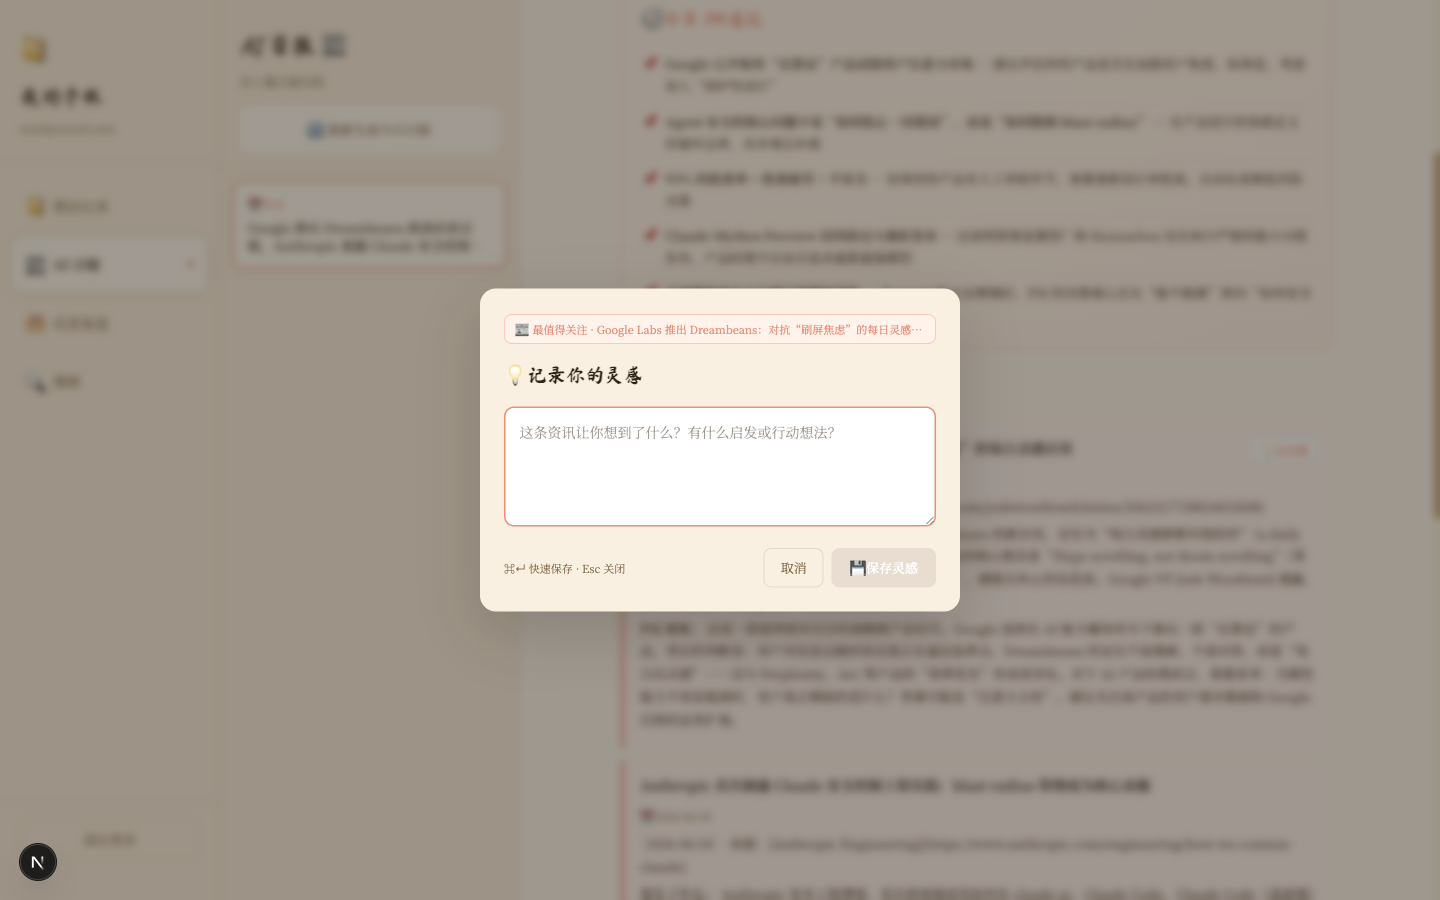
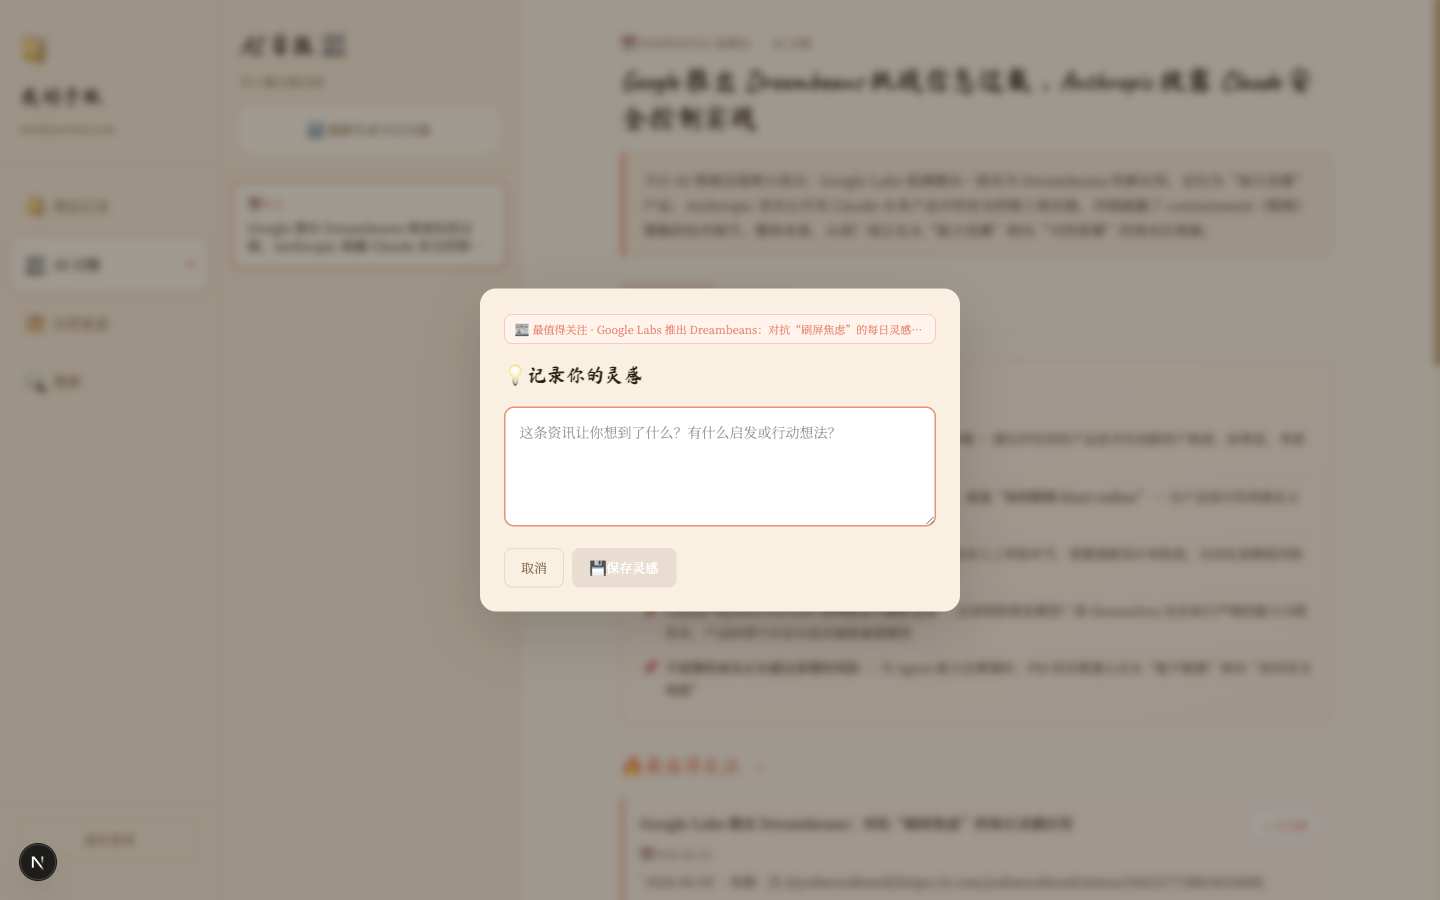
fix: 移除 UI 中的快捷键提示文字，兼容手机和 Windows 用户

diff --git a/src/components/brief/BriefDetail.tsx b/src/components/brief/BriefDetail.tsx
@@ -532,9 +532,6 @@ export default function BriefDetail({ brief }: Props) {
                 alignItems: 'center',
                 marginTop: '14px',
               }}>
-                <span style={{ fontSize: '11px', color: 'var(--ink-muted)' }}>
-                  ⌘↵ 快速保存 · Esc 关闭
-                </span>
                 <div style={{ display: 'flex', gap: '8px' }}>
                   <button
                     onClick={() => setInsightSource(null)}
@@ -779,9 +776,6 @@ function DailyReviewSection({
             alignItems: 'center',
             marginTop: '12px',
           }}>
-            <span style={{ fontSize: '11px', color: 'var(--ink-muted)' }}>
-              ⌘↵ 保存{review ? ' · Esc 取消' : ''}
-            </span>
             <div style={{ display: 'flex', gap: '8px' }}>
               {review && reviewEditing && (
                 <button

diff --git a/src/app/demo/page.tsx b/src/app/demo/page.tsx
@@ -172,7 +172,7 @@ export default function DemoPage() {
               <textarea
                 value={input}
                 onChange={e => setInput(e.target.value)}
-                placeholder="写点什么… 用 #标签 来分类，⌘+Enter 快速保存"
+                placeholder="写点什么… 用 #标签 来分类"
                 rows={2}
                 style={{
                   width: '100%', background: 'transparent', border: 'none',

diff --git a/src/components/editor/NoteEditor.tsx b/src/components/editor/NoteEditor.tsx
@@ -149,10 +149,6 @@ export default function NoteEditor({ initialContent = '', onSave, onClose }: Pro
               {wordCount} 字
             </span>
 
-            {/* 快捷键提示（移动端隐藏） */}
-            <span className="hide-mobile" style={{ fontSize: '11px', color: 'var(--ink-light)' }}>
-              ⌘S 保存 · Esc 关闭
-            </span>
 
             <button onClick={onClose} style={{
               background: 'none',

diff --git a/src/components/notes/HomeClient.tsx b/src/components/notes/HomeClient.tsx
@@ -204,7 +204,7 @@ export default function HomeClient({ initialNotes, initialHeatmap, initialTags }
           onKeyDown={e => {
             if (e.key === 'Enter' && (e.metaKey || e.ctrlKey)) handleSubmit()
           }}
-          placeholder="写点什么… 用 #标签 来分类，⌘+Enter 快速保存"
+          placeholder="写点什么… 用 #标签 来分类"
           className="journal-input"
           rows={2}
           style={{

diff --git a/README.md b/README.md
@@ -16,7 +16,7 @@
 | 💡 记录灵感 | 灵感捕捉浮层 | 今日回顾 |
 |:---:|:---:|:---:|
 | ![记录灵感按钮](./public/screenshots/insight-btn.png) | ![灵感捕捉浮层](./public/screenshots/insight-modal.png) | ![今日回顾](./public/screenshots/daily-review.png) |
-| 悬停资讯卡片，随手记灵感 | 预填来源上下文，⌘↵ 快速保存 | 读完日报写下今日思考，与日报绑定归档 |
+| 悬停资讯卡片，随手记灵感 | 预填来源上下文，点击即保存 | 读完日报写下今日思考，与日报绑定归档 |
 
 ---
 
@@ -27,7 +27,7 @@
 | 📝 **想法记录** | 快速记录日常想法，支持 `#标签` 自动分类，近半年热力图展示活跃度 |
 | 📄 **记录详情页** | 完整查看任意一条记录，支持 Markdown 渲染、编辑、删除（删除前二次确认） |
 | 📰 **AI 日报一键生成** | 网站内直接触发，自动抓取头部优质信息源，基于 AI 流式实时预览生成过程，完成后自动存档 |
-| 💡 **灵感捕捉** | 阅读日报时悬停资讯卡片，一键唤出灵感浮层；自动预填来源上下文，⌘↵ 快速保存为碎片想法 |
+| 💡 **灵感捕捉** | 阅读日报时悬停资讯卡片，一键唤出灵感浮层；自动预填来源上下文，一键保存为碎片想法 |
 | 📝 **今日回顾** | 日报底部专属回顾区域；读完写下今日思考，与当日日报绑定归档，在反思复盘页显示日报来源标签 |
 | 🗂 **反思复盘** | 长文日记入口，支持 Markdown 编辑，统计情绪分布与高频话题 |
 | 🔍 **多维搜索** | 支持按正文内容、标签名、记录类型、时间范围（近 7/30 天、自定义）多维筛选检索 |
